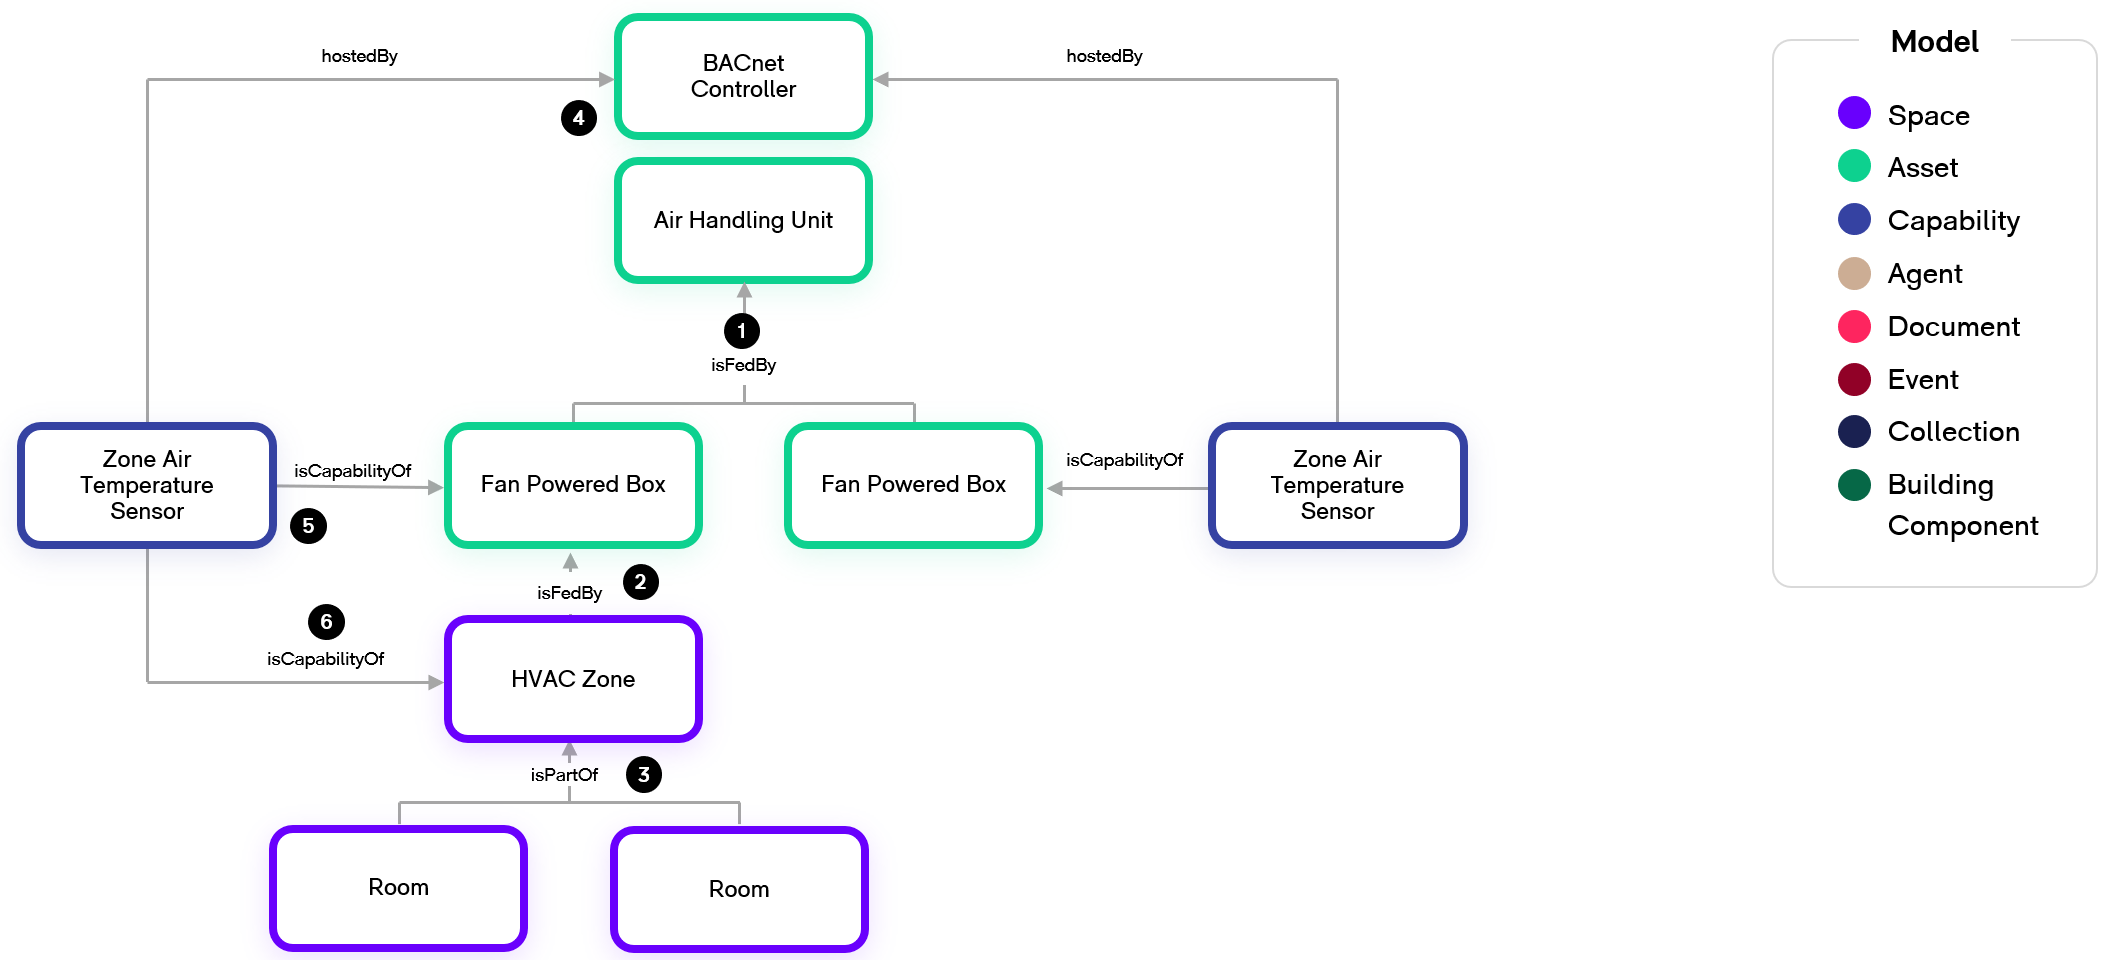
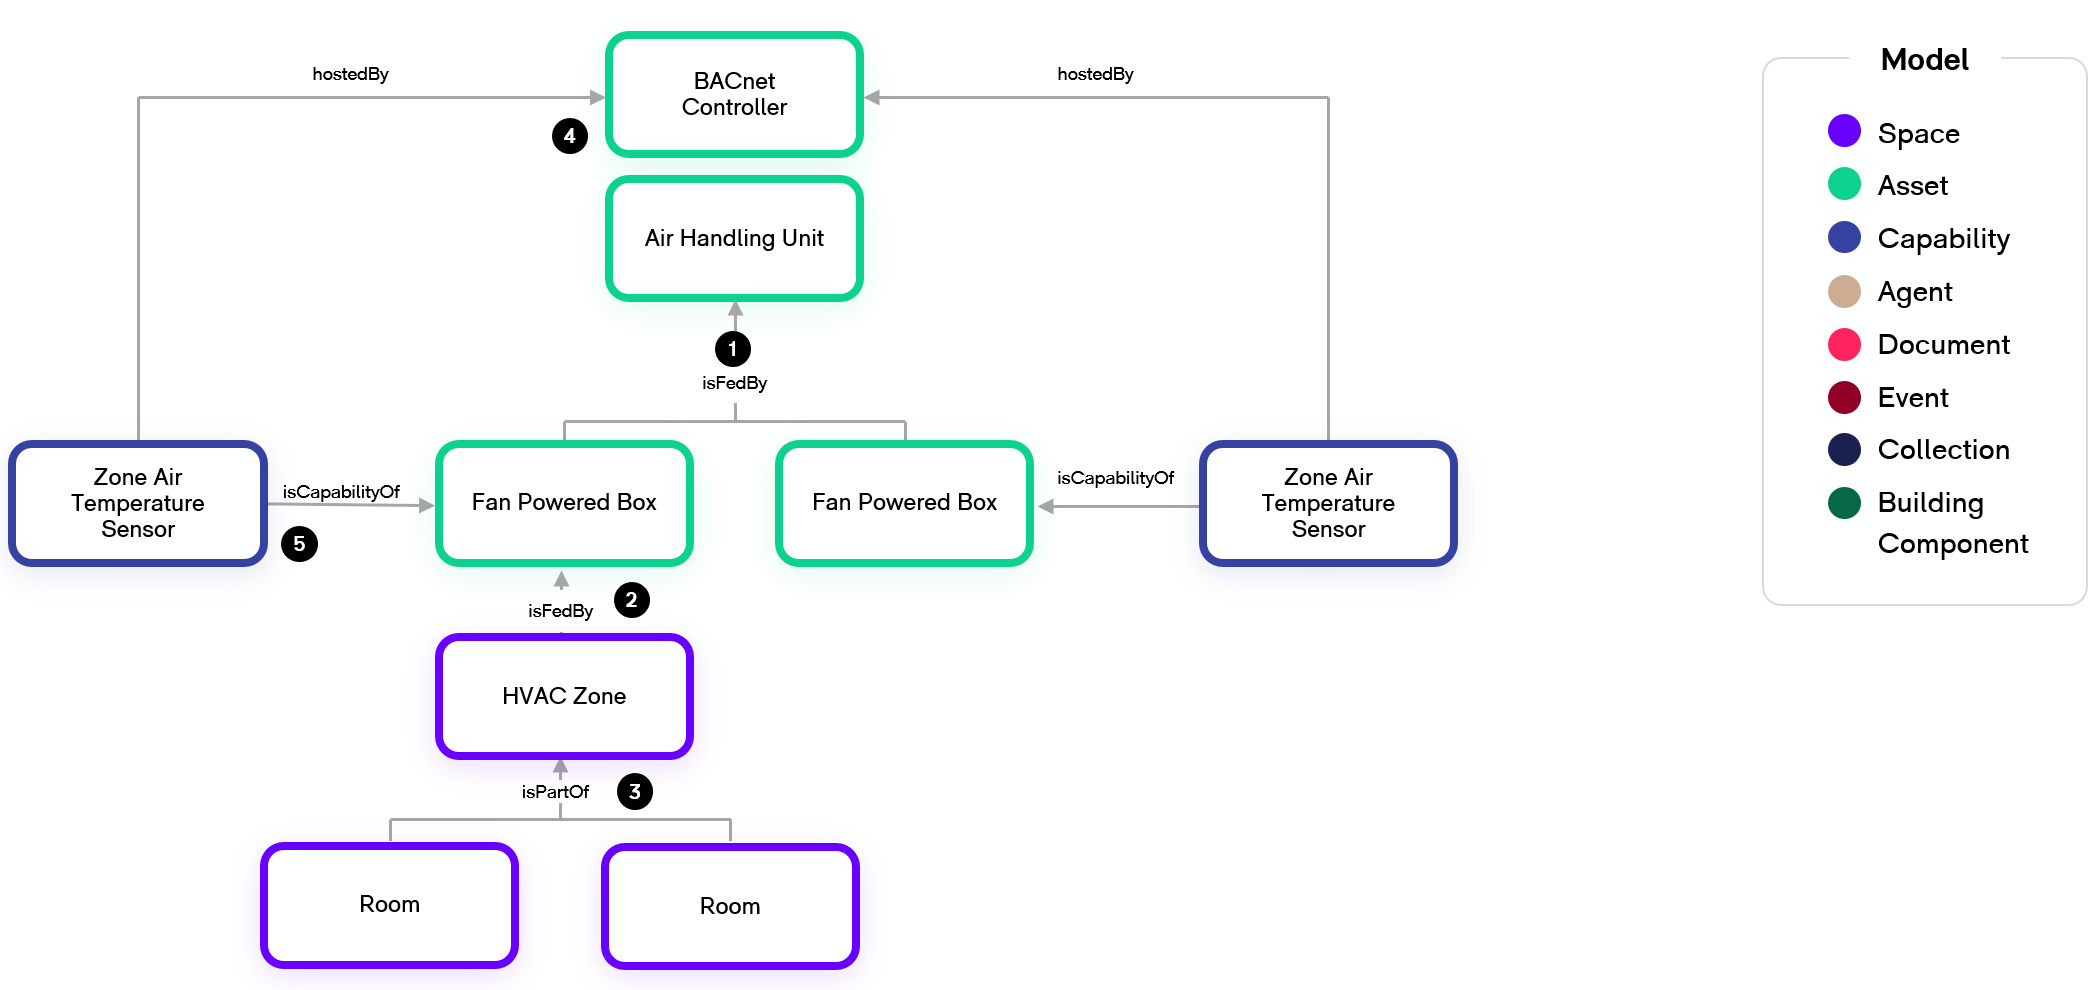
More metering examples

diff --git a/Samples/05-Metering.md b/Samples/05-Metering.md
@@ -17,3 +17,33 @@ In this example, we expand upon the Electrical distribution example and introduc
 4. In some instances, the Electrical Meter may be directly monitoring equipment (i.e. plug load meters) or individual twins of the electrical circuits may be not be created. In this example of a branch circuit meter, the Electrical Meter is trending two Energy Sensor metrics which is defined with the hostedBy relationship. The isCapabilityOf relationship assigns the Capability to a Fan Powered Box and an Exhaust Fan.
 
 5. In some instances, a physical meter asset may be unknown or non-existent in the design. In this example, we show that the Luminaire is reporting its Electrical Current which may be a built-in Capability of that Luminaire.
+
+## Assigning Meters to Buildings
+
+In this example, we depict how metering measurements get assigned to a space such as a Building. 
+
+![Metering-Example2](Images/Metering-Example2.png)
+
+1. The Electrical Switchgear is an electrical service entrance for the building. It has an Electrical Meter measuring the incoming circuit from the utility. We are showing one of the capabilities of the meter, Electrical Energy Sensor, which is hostedBy the Electrical Meter and isCapabilityOf the Electrical Switchgear.
+
+2. We use the servedBy relationship from the Building to the Electrical Switchgear to indicate the service entrance relationship and thus all capabilities related to the Electrical Switchgear (i.e. Electrical Energy Sensor) can be attributed to the Building’s metering aggregate calculations.
+
+3. Many buildings may have multiple service entrances from the utility each with their own meters. In addition to the first service entrance indicated by #1, this building has two additional service entrances indicated by #3 each with their own metering capabilities. Note that various types of Electrical Distribution Equipment may be used at electrical service entrances such as a Switchboard or Panelboard, but they can each still be attributed to the Building with the servedBy relationship.
+
+4. Because the Building has three service entrances, the WillowTwin will calculate the aggregate energy for the building by summing up the Electrical Energy Sensors of each service entrance and assigning it to the Building in #4.
+
+5. In other scenarios, the Building’s total energy consumption may be ingested directly into the WillowTwin. The same isCapabilityOf relationship is used in #5 as the calculated Electrical Energy Sensor in #4 which allows the WillowTwin to treat them the same regardless of how the calculation was performed by the underlying metering topology.
+
+## Assigning Meters to Tenant Units and Companies
+
+In this example, we replace the Building from the previous example with a Tenant Unit.
+
+![Metering-Example3](Images/Metering-Example3.png)
+
+1. We indicate a similar scenario as the Building examaple above where the Tenant Unit has three meters which act as separate services for the space. The servedBy relationship is used from the Tenant Unit to each of the electrical service equipment - two Electrical Panelboards and a Transformer.
+
+2. The WillowTwin calculates the aggregate energy for the Tenant unit by summing up each of the Electrical Energy Sensor capabilities at the service entrances.
+
+3. Another Tenant Unit within the building has an Electrical Energy Sensor representing its energy consumption.
+
+4. If we are interested in calculating the aggregate energy for a Company which is leasing both Tenant Units (#1 and #3), we leverage the relationship of a Company having a Lease for the Tenant Units as indicated in the Leasing Space example.

diff --git a/Samples/03-HVAC.md b/Samples/03-HVAC.md
@@ -18,8 +18,6 @@ At a fundamental level, HVAC systems exchange energy and move air and water to c
 
 5. Each Capability has a primary relationship to one or more Assets, Spaces, or Equipment Collections. In this example, the Zone Air Temperature Sensors each relate to a Fan Powered Box. We use the isCapabilityOf relationship to define which twin a Capability belongs to. By leveraging both the hostedby and isCapabilityOf relationships, this provides the flexibility to accommodate scenarios where an Asset’s Capabilities are hosted by separate Controllers as well as a Capability belonging to multiple entities.
 
-6. Because a Zone Air Temperature Sensor is measuring the temperature of the HVAC Zone, we use the isCapabilityOf relationship from the Sensor to the Zone to establish the Zones temperature.
-
 ## HVAC Multi-Zone Room
 
 ![HVAC-Example2](Images/HVAC-Example2.png)
